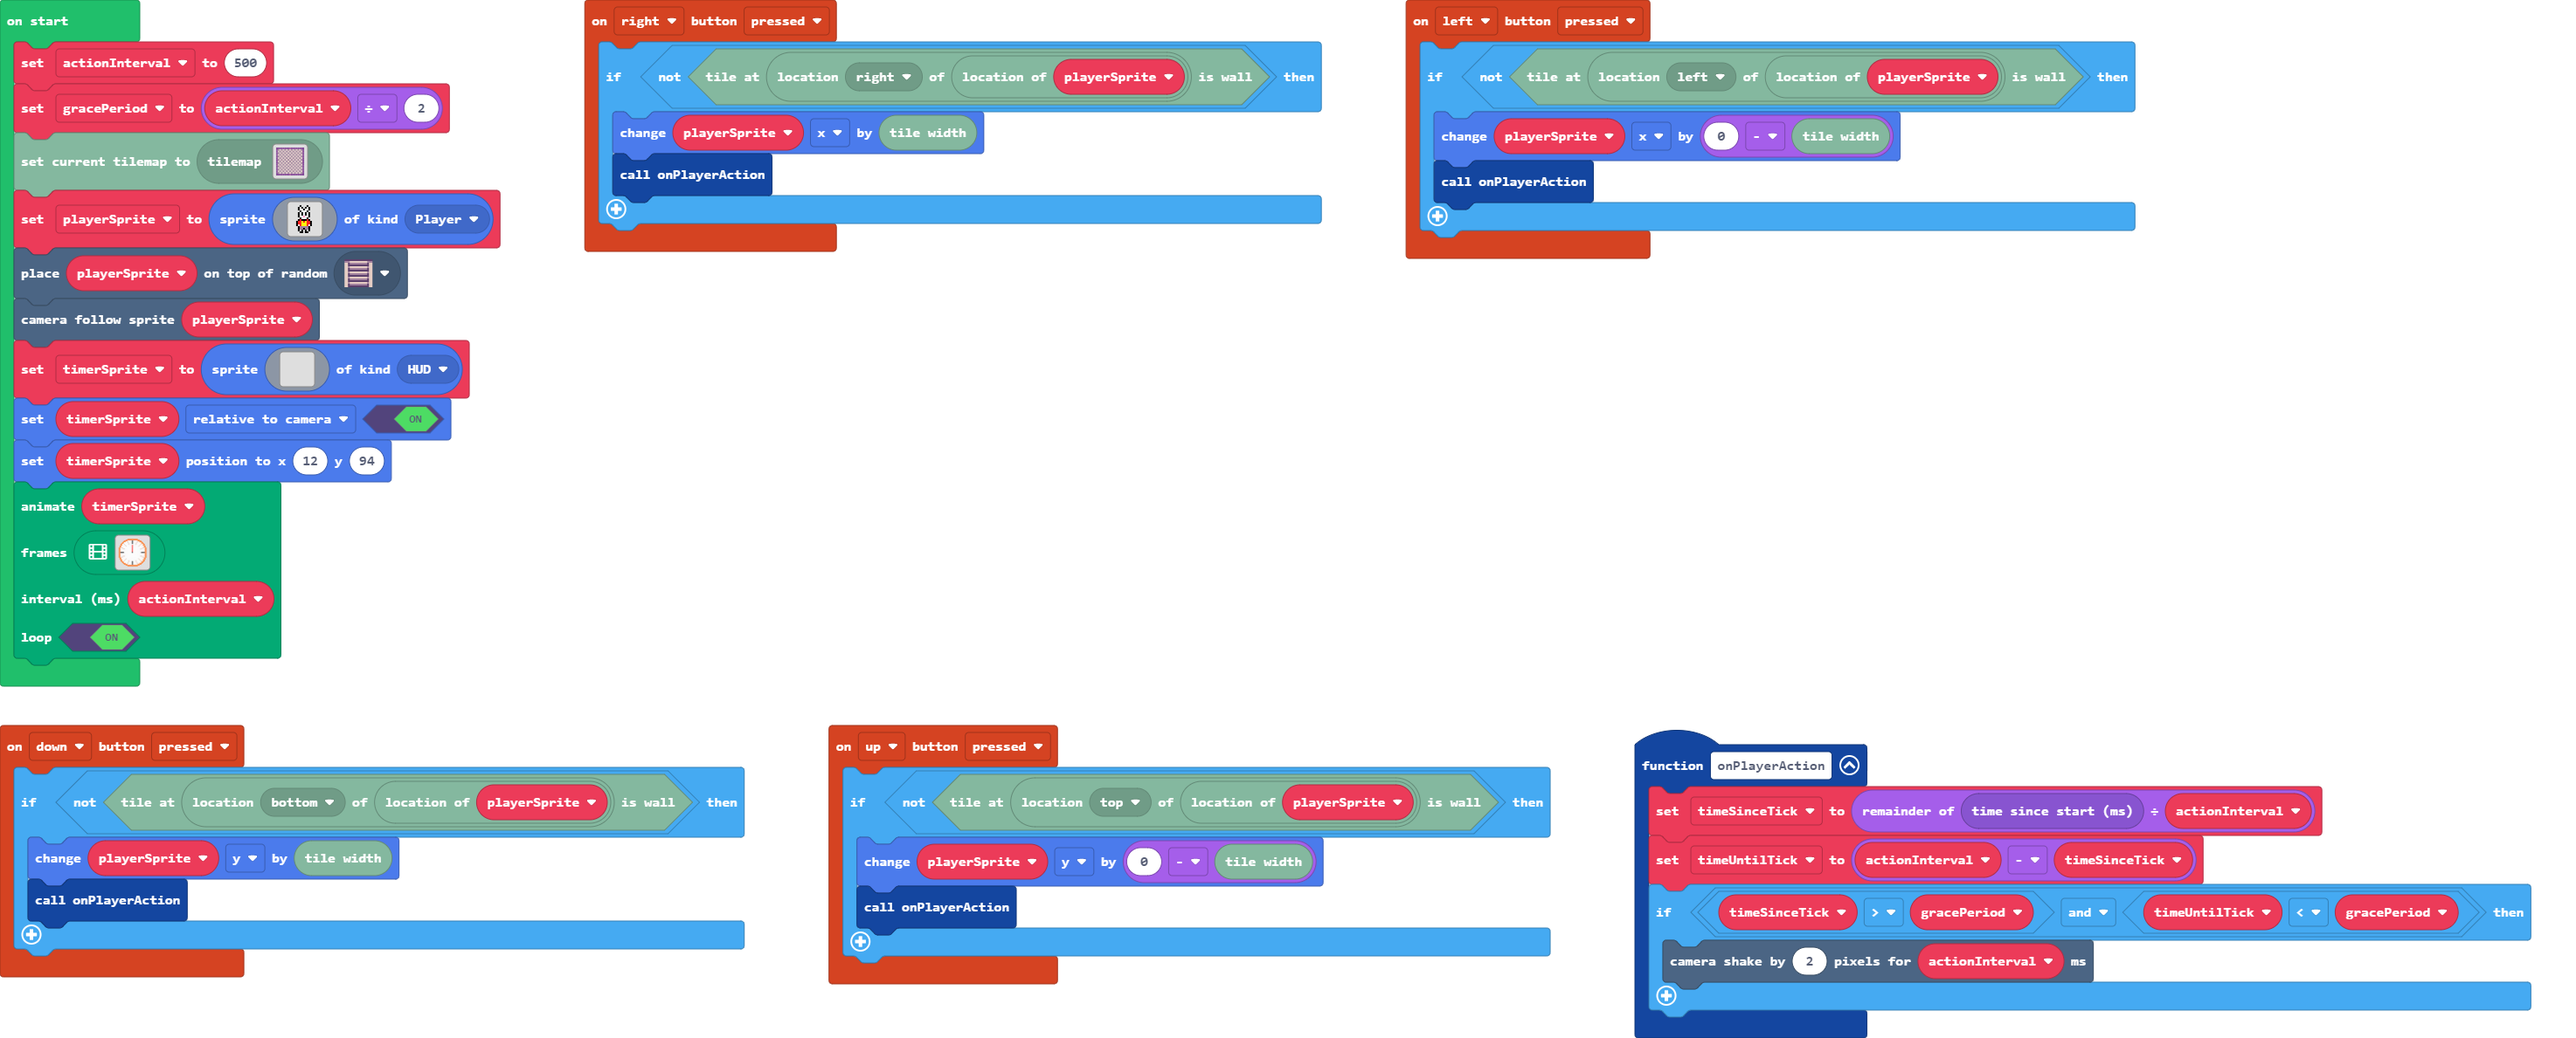
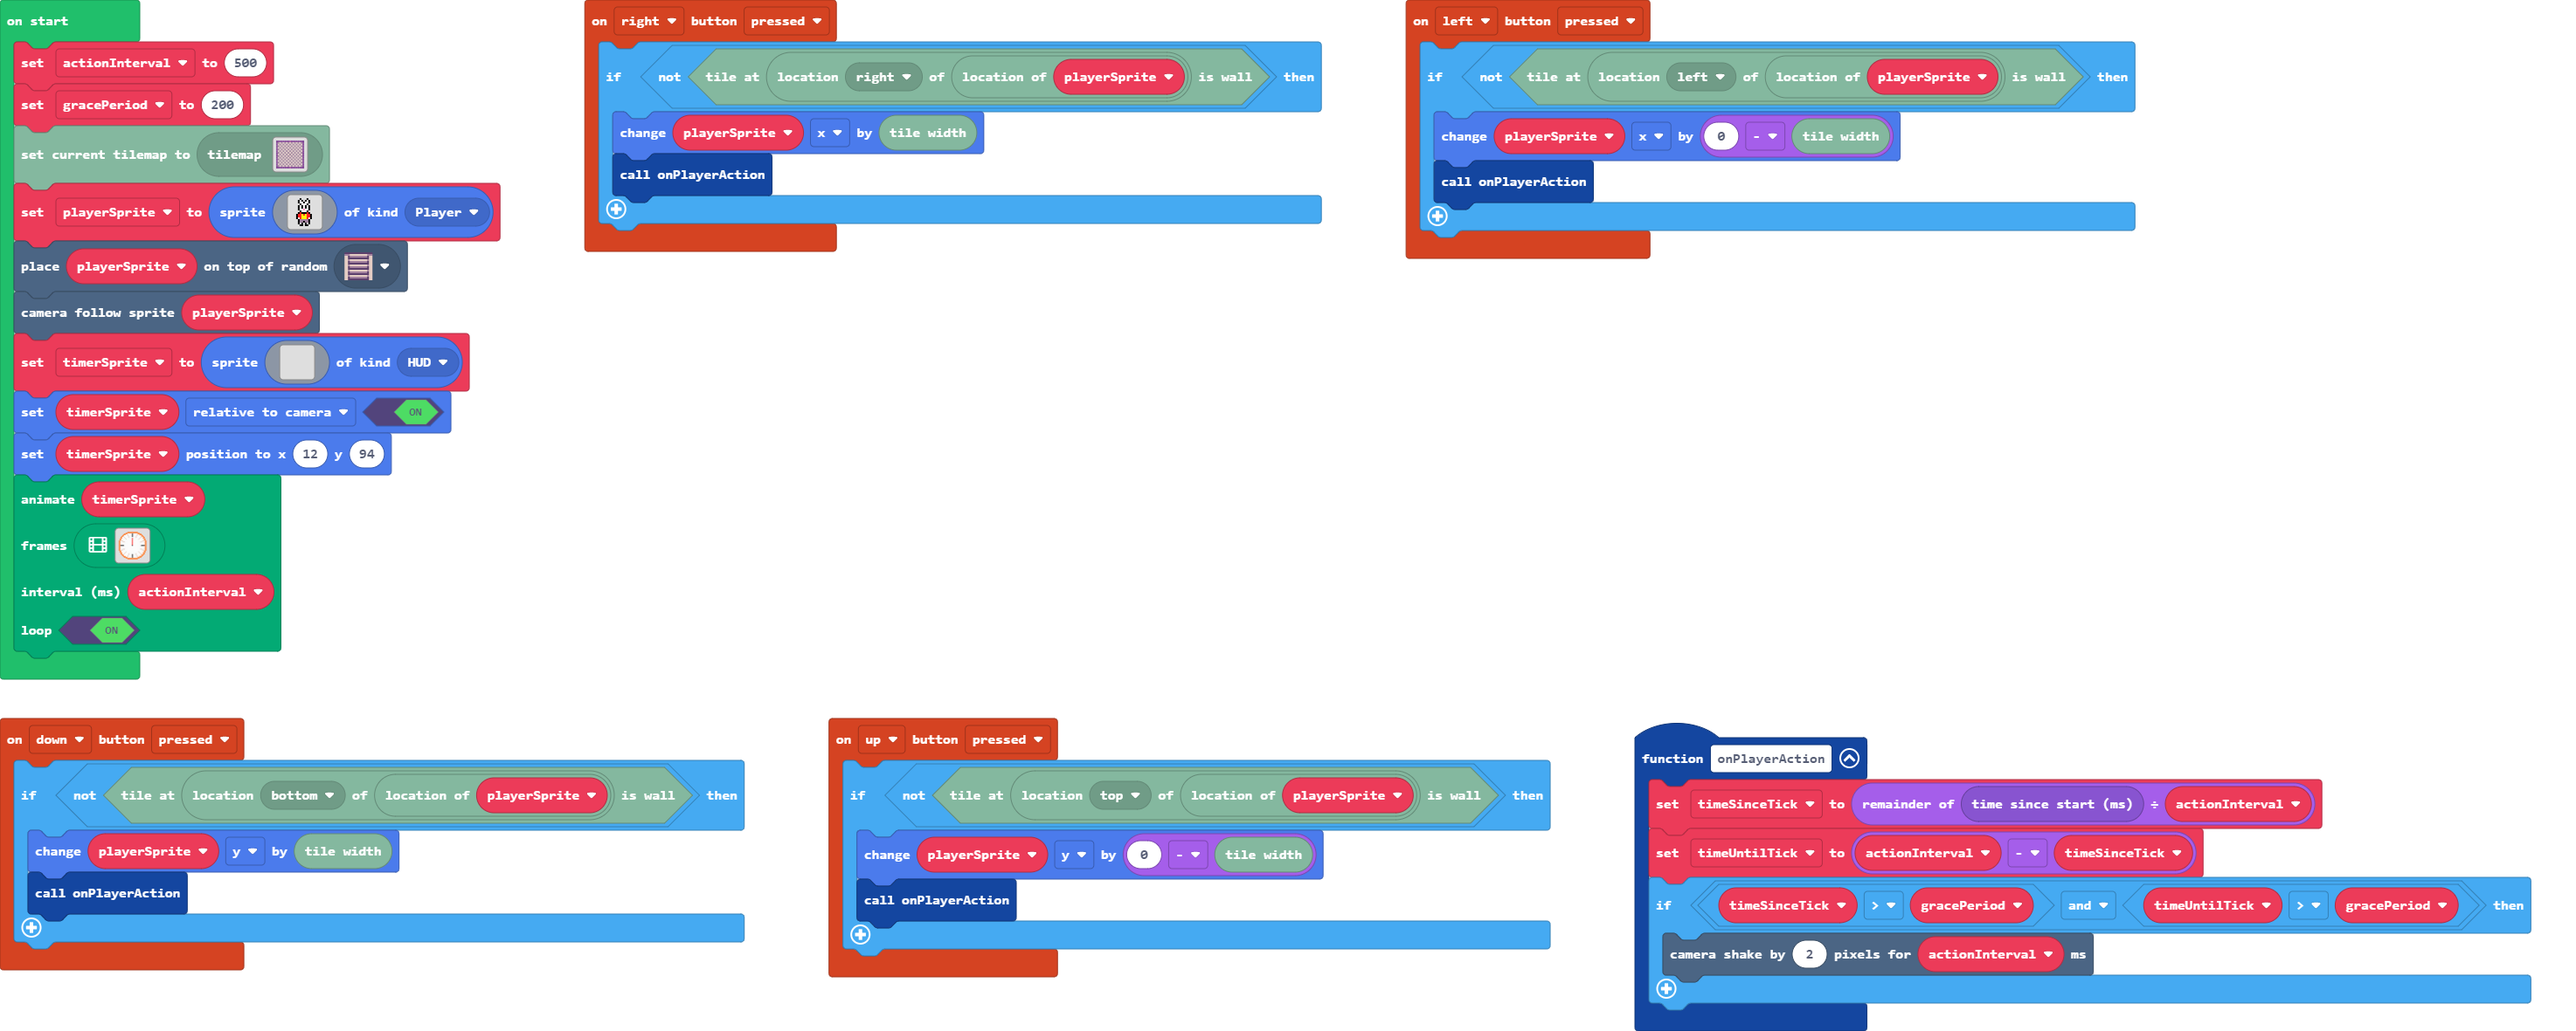
Fix grace period logic.

diff --git a/main.ts b/main.ts
@@ -28,7 +28,7 @@ controller.down.onEvent(ControllerButtonEvent.Pressed, function () {
 function onPlayerAction () {
     timeSinceTick = game.runtime() % actionInterval
     timeUntilTick = actionInterval - timeSinceTick
-    if (timeSinceTick > gracePeriod && timeUntilTick < gracePeriod) {
+    if (timeSinceTick > gracePeriod && timeUntilTick > gracePeriod) {
         scene.cameraShake(2, actionInterval)
     }
 }
@@ -38,7 +38,7 @@ let playerSprite: Sprite = null
 let gracePeriod = 0
 let actionInterval = 0
 actionInterval = 500
-gracePeriod = actionInterval / 2
+gracePeriod = 200
 tiles.loadMap(tiles.createMap(tilemap`level0`))
 playerSprite = sprites.create(assets.image`Player`, SpriteKind.Player)
 tiles.placeOnRandomTile(playerSprite, sprites.dungeon.stairSouth)
